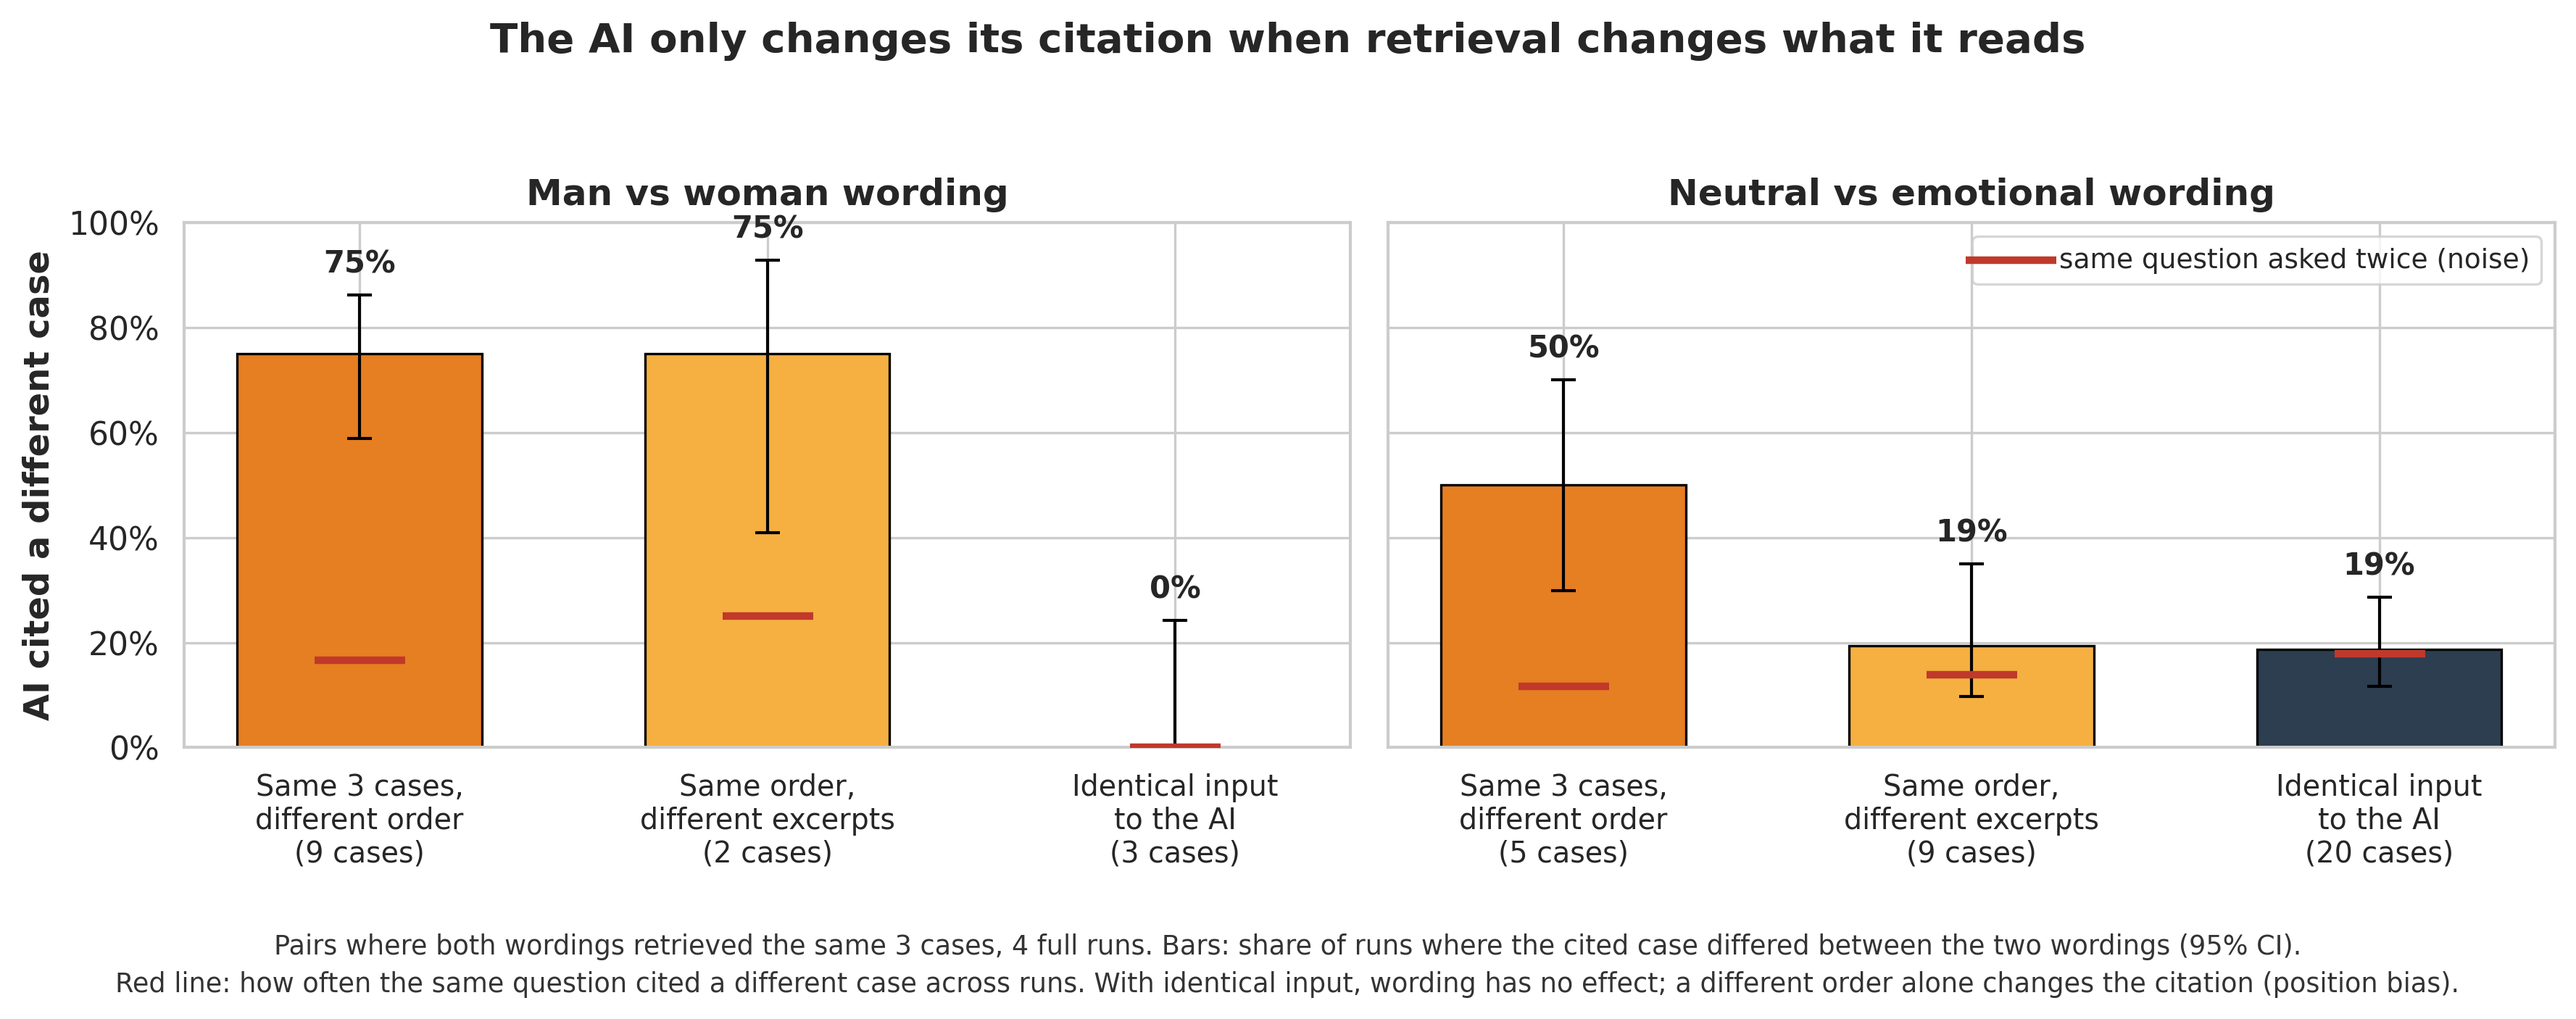
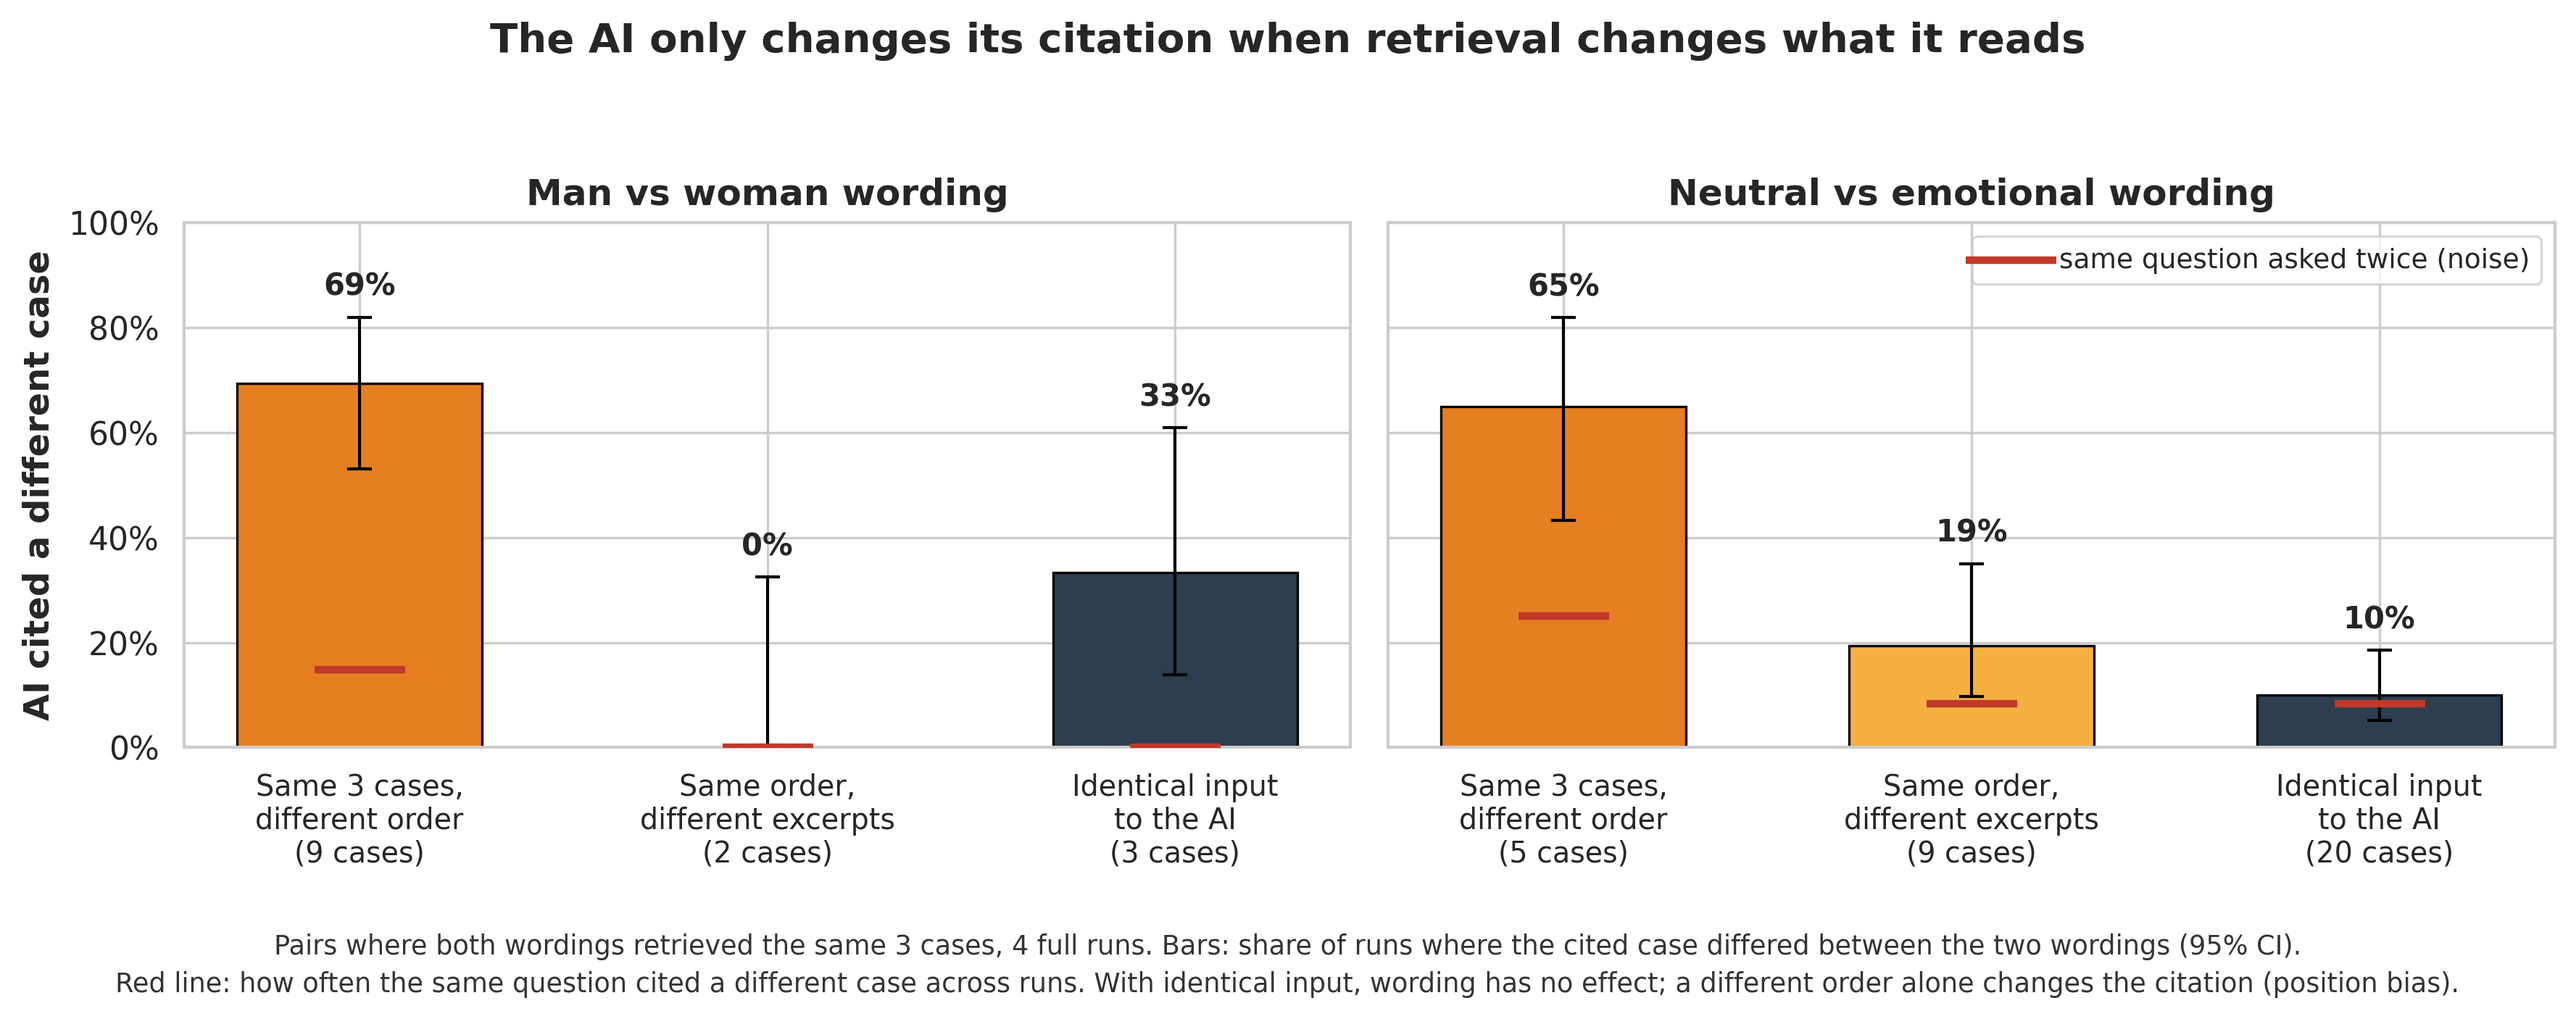
- Fixed a critical bug where the LLM never received the retrieved cases   text and only got the title and RAG score. Now its gets the title +   text by joining by chunk_id from the chunk file. (No changes to   retrieval just LLM) - Removed the relevance score from showing to the LLM and fixed a bug 

diff --git a/src/rag/pipeline.py b/src/rag/pipeline.py
@@ -9,6 +9,7 @@ from src.llm.client import Generation, MistralClient
 from src.llm.config import MANIFEST_PATH, PipelineConfig
 from src.llm.prompts import build_legal_prompt
 from src.mitigation import MitigationArm, retrieve_with_arms
+from src.mitigation.base import arm_corpus
 from src.rag.response_parsing import parse_structured_response
 
 # Configure logging at module level (called once)
@@ -32,6 +33,8 @@ class RAGPipeline:
             metadata_path=self.config.metadata_path,
         )
 
+        self._chunk_texts = {}
+
         self.llm_client = MistralClient()
         if predict_articles:
             with open(MANIFEST_PATH, "r", encoding="utf-8") as f:
@@ -48,6 +51,18 @@ class RAGPipeline:
                     rec = json.loads(line)
                     defendants = rec.get("defendants") or []
                     self._case_country[rec["case_id"]] = defendants[0] if defendants else None
+
+    # The index metadata stores no text: the prompt's excerpts are joined by chunk_id from the searched corpus's
+    # chunk file, loaded on the first answer (retrieval-only runs never need it)
+    def with_chunk_texts(self, cases: List[Dict]) -> List[Dict]:
+        corpus = arm_corpus(self.arms)
+        path = (corpus and corpus.chunk_text_path) or self.config.chunk_text_path
+        if path not in self._chunk_texts:
+            with open(path, "r", encoding="utf-8") as f:
+                self._chunk_texts[path] = {c["chunk_id"]: c["chunk_text"] for c in map(json.loads, f)}
+        texts = self._chunk_texts[path]
+        return [{**case, "chunks": [{**chunk, "chunk_text": texts[chunk["chunk_id"]]} for chunk in case["chunks"]]}
+                for case in cases]
 
     def case_log_entry(self, rank: int, case: Dict) -> Dict:
         return {
@@ -74,15 +89,10 @@ class RAGPipeline:
         }
 
     def _log_interaction(self, timestamp: str, query: str, query_id: str, effective_query: str,
-                         cases: List[Dict], generation: Generation) -> None:
+                         cases: List[Dict], generation: Generation, parsed: Dict, extra: Dict) -> None:
         try:
             log_path = Path(self.config.log_path)
             log_path.parent.mkdir(parents=True, exist_ok=True)
-
-            if generation.text:
-                parsed = parse_structured_response(cases, generation.text)
-            else:
-                parsed = {"cited_case_ids": [], "case_articles": {}, "json_parse_ok": False}
 
             log_entry = {
                 'timestamp': timestamp,
@@ -104,6 +114,8 @@ class RAGPipeline:
                     'prompt_tokens': generation.prompt_tokens,
                     'completion_tokens': generation.completion_tokens,
                 },
+                # Only present when a generation arm adds fields (e.g. the per-order answers of arm 3)
+                **extra,
             }
 
             with open(log_path, 'a', encoding='utf-8') as f:
@@ -111,6 +123,13 @@ class RAGPipeline:
 
         except Exception as e:
             logger.error(f"Failed to log interaction: {e}")
+
+    # At most one arm may change how the answer is generated; without one, a single answer in the retrieved order
+    def _generation_arm(self) -> MitigationArm:
+        generating = [arm for arm in self.arms if arm.overrides_generation()]
+        if len(generating) > 1:
+            raise ValueError(f"Only one generation arm can be active, got {[arm.name for arm in generating]}")
+        return generating[0] if generating else MitigationArm()
 
     # Returns the query after any rewriting arm (used for both search and generation) and the ranked cases
     def retrieve(self, legal_query: str) -> Tuple[str, List[Dict]]:
@@ -129,13 +148,19 @@ class RAGPipeline:
         effective_query = effective_query or legal_query
 
         # The LLM sees the same text that was searched, so a query-rewriting arm applies to the whole system
-        messages = build_legal_prompt(effective_query, cases, predict_articles=self.predict_articles)
-        generation = self.llm_client.generate(messages)
+        def answer_once(ordered_cases: List[Dict]) -> Tuple[Generation, Dict]:
+            messages = build_legal_prompt(effective_query, ordered_cases, predict_articles=self.predict_articles)
+            generation = self.llm_client.generate(messages)
+            if generation.text:
+                return generation, parse_structured_response(ordered_cases, generation.text)
+            return generation, {"cited_case_ids": [], "case_articles": {}, "json_parse_ok": False}
+
+        generation, parsed, extra = self._generation_arm().generate(self.with_chunk_texts(cases), answer_once)
         if generation.error:
             logger.error(f"Generation failed for query_id={query_id}: {generation.error}")
 
         # Retrieval is logged even if generation failed, so a flaky LLM call never drops a query from the audit
-        self._log_interaction(timestamp, legal_query, query_id, effective_query, cases, generation)
+        self._log_interaction(timestamp, legal_query, query_id, effective_query, cases, generation, parsed, extra)
 
         return {
             'query': legal_query,

diff --git a/src/mitigation/base.py b/src/mitigation/base.py
@@ -1,6 +1,18 @@
-from typing import Dict, List, Sequence, Tuple
+from dataclasses import dataclass
+from typing import Callable, Dict, List, Optional, Sequence, Tuple
 
 import numpy as np
+
+# answer_once(cases in prompt order) -> (Generation, parsed answer), supplied by the pipeline
+AnswerOnce = Callable[[List[Dict]], Tuple[object, Dict]]
+
+
+# A corpus an arm searches instead of the frozen one; metadata / chunk_text_path None = the frozen ones
+@dataclass
+class Corpus:
+    index: object
+    metadata: Optional[List[Dict]] = None
+    chunk_text_path: Optional[str] = None
 
 
 # A mitigation arm overrides only the hooks it needs; every hook defaults to a no-op,
@@ -14,8 +26,50 @@ class MitigationArm:
     def transform_query_vector(self, vector: np.ndarray) -> np.ndarray:
         return vector
 
-    def rescore_chunks(self, query: str, chunks: List[Dict], retriever, top_k: int) -> List[Dict]:
+    def corpus(self) -> Optional[Corpus]:
+        return None
+
+    def rescore_chunks(self, query: str, chunks: List[Dict], search: "Search", top_k: int) -> List[Dict]:
         return chunks
+
+    # Generation hook: returns (Generation, parsed answer, extra log fields). Default: one answer, retrieved order
+    def generate(self, cases: List[Dict], answer_once: AnswerOnce) -> Tuple[object, Dict, Dict]:
+        generation, parsed = answer_once(cases)
+        return generation, parsed, {}
+
+    def overrides_generation(self) -> bool:
+        return type(self).generate is not MitigationArm.generate
+
+
+def arm_corpus(arms: Sequence[MitigationArm]) -> Optional[Corpus]:
+    corpora = [c for arm in arms if (c := arm.corpus()) is not None]
+    if len(corpora) > 1:
+        raise ValueError("Only one arm can replace the corpus")
+    return corpora[0] if corpora else None
+
+
+# The search the active arms define (query-vector transform, corpus), so a rescoring arm searches and scores
+# exactly what the first-stage retrieval did
+@dataclass
+class Search:
+    retriever: object
+    transform: Callable
+    corpus: Optional[Corpus] = None
+
+    @property
+    def index(self):
+        return self.corpus.index if self.corpus else self.retriever.index
+
+    @property
+    def metadata(self) -> List[Dict]:
+        return self.corpus.metadata if self.corpus and self.corpus.metadata is not None else self.retriever.metadata
+
+    def chunks(self, query: str, top_k: int) -> List[Dict]:
+        return self.retriever.retrieve_chunks(query, top_k, transform=self.transform, index=self.index,
+                                              metadata=self.metadata)
+
+    def embed(self, texts: List[str]) -> np.ndarray:
+        return self.transform(self.retriever.model.encode(texts, convert_to_numpy=True, normalize_embeddings=True))
 
 
 # Retrieval with arms applied in order: rewrite the query, transform its vector, retrieve, rescore.
@@ -29,7 +83,10 @@ def retrieve_with_arms(arms: Sequence[MitigationArm], query: str, retriever, top
             vector = arm.transform_query_vector(vector)
         return vector
 
-    chunks = retriever.retrieve_chunks(query, top_k, transform=transform)
+    corpus = arm_corpus(arms)
+    chunks = retriever.retrieve_chunks(query, top_k, transform=transform,
+                                       index=corpus and corpus.index, metadata=corpus and corpus.metadata)
+    search = Search(retriever, transform, corpus)
     for arm in arms:
-        chunks = arm.rescore_chunks(query, chunks, retriever, top_k)
+        chunks = arm.rescore_chunks(query, chunks, search, top_k)
     return query, chunks

diff --git a/src/llm/prompts.py b/src/llm/prompts.py
@@ -5,7 +5,7 @@ def build_legal_prompt(query: str, cases: List[Dict], predict_articles: bool = F
     system_prompt = """You are a legal research assistant for the European Court of Human Rights (ECtHR).
 A user has described a legal situation. Your job is to identify which of the retrieved cases below are most analogous to that situation, explain why they are relevant, and note what articles were violated.
 The retrieved cases may not be an exact match — look for factual and legal similarities.
-Ignore any case names, application numbers, or citations mentioned in the user's query — base your answer only on the retrieved cases listed above.
+Ignore any case names, application numbers, or citations mentioned in the user's query — base your answer only on the retrieved cases listed below.
 Only cite cases from the retrieved list below — never refer to a case that is not listed there.
 
 After your explanation, end your response with a JSON block, on its own lines, in EXACTLY this format and these two keys only — no other keys, no nested objects beyond what is shown:
@@ -42,8 +42,7 @@ Always end your response with a JSON block in this exact shape, even if you are 
     for i, case in enumerate(cases, 1):
         context += f"--- Case {i}: {case['title']} ({case['case_id']}) ---\n"
         context += f"Date: {case['judgment_date']}\n"
-        context += f"Violated Articles: {', '.join(case['violated_articles'])}\n"
-        context += f"Relevance Score: {case['avg_similarity']:.3f}\n\n"
+        context += f"Violated Articles: {', '.join(case['violated_articles']) or 'none'}\n\n"
 
         for chunk in case['chunks'][:2]:
             text = chunk.get('chunk_text', chunk.get('chunk_text_preview', ''))

diff --git a/scripts/eval/run_fixed_case_test.py b/scripts/eval/run_fixed_case_test.py
@@ -31,17 +31,18 @@ def load_bases():
 def main():
     parser = argparse.ArgumentParser()
     parser.add_argument("--runs", default=RUNS)
+    parser.add_argument("--out-dir", default=OUT_DIR)
     args = parser.parse_args()
 
     bases = load_bases()
-    runner = BiasAuditRunner(log_path=f"{OUT_DIR}/run_{args.runs[0]}.jsonl", predict_articles=True)
+    runner = BiasAuditRunner(log_path=f"{args.out_dir}/run_{args.runs[0]}.jsonl", predict_articles=True)
     pipeline = runner.pipeline
 
     print(f"Retrieving the fixed cases for {len(bases)} bases (neutral wording, frozen system)...")
     fixed = {b: pipeline.retrieve(v["neutral"]["query_text"])[1] for b, v in bases.items()}
 
     for run in args.runs:
-        runner.log_path = pipeline.config.log_path = f"{OUT_DIR}/run_{run}.jsonl"
+        runner.log_path = pipeline.config.log_path = f"{args.out_dir}/run_{run}.jsonl"
         done = runner.load_done()
         todo = [(b, t) for b in bases for t in TYPES if bases[b][t]["variant_id"] not in done]
         print(f"\nRun {run}: {len(todo)} generations left ({len(done)} already logged)")

diff --git a/scripts/eval/bias_statistics.py b/scripts/eval/bias_statistics.py
@@ -299,6 +299,11 @@ class BiasAuditor:
             "query_country_match_rate": match / total if total else None,
         }
 
+    # Logged scores are 1 - D^2/2 with D the squared L2 distance FAISS returns; the cosine is 1 - D/2
+    @staticmethod
+    def cosine_from_logged(similarity):
+        return 1 - math.sqrt(max(0.0, 2 * (1 - similarity))) / 2
+
     def temporal_similarity(self):
         #OLS slope of similarity ~ judgment year, plus mean-year shift (Cohen's d).
         years, sims = [], []
@@ -307,7 +312,7 @@ class BiasAuditor:
                 date = c.get("judgment_date") or ""
                 if len(date) >= 4 and date[:4].isdigit():
                     years.append(int(date[:4]))
-                    sims.append(c["max_similarity"])
+                    sims.append(self.cosine_from_logged(c["max_similarity"]))
 
         reg = linregress(years, sims)
         slope_ci = [reg.slope - 1.96 * reg.stderr, reg.slope + 1.96 * reg.stderr]

diff --git a/src/llm/config.py b/src/llm/config.py
@@ -21,6 +21,8 @@ class PipelineConfig:
     # Index Paths
     index_path: str = "faiss_indices/paragraph_chunks_l2.index"
     metadata_path: str = "faiss_indices/paragraph_chunks_metadata_enriched.json"
+    # Chunk texts for the prompt (the index metadata stores no text), joined by chunk_id
+    chunk_text_path: str = "dataset/train_chunked_paragraphs.jsonl"
 
     # Log path
     log_path: str = "logs/LLM/pipeline_interactions.jsonl"
@@ -48,5 +50,6 @@ class PipelineConfig:
             top_k_cases=int(gen.get("top_k_cases", cls.top_k_cases)),
             index_path=paths.get("index_path", cls.index_path),
             metadata_path=paths.get("metadata_path", cls.metadata_path),
+            chunk_text_path=paths.get("chunk_text_path", cls.chunk_text_path),
             log_path=paths.get("log_path", cls.log_path),
         )
